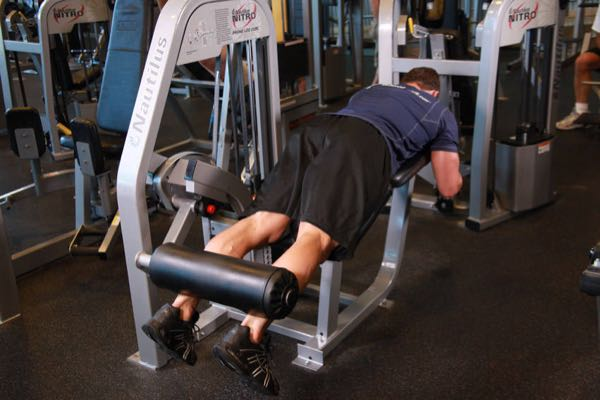
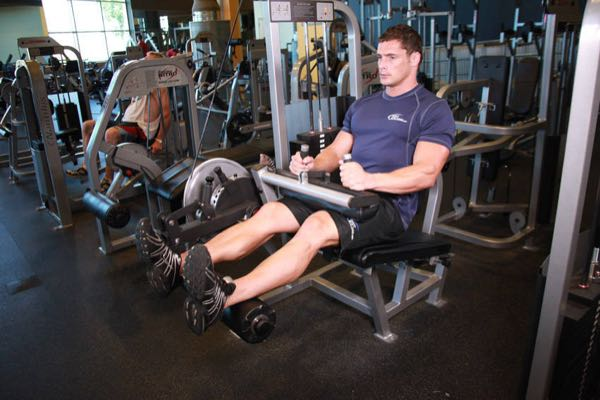
Leg curl : photo de la version assise

diff --git a/js/program.js b/js/program.js
@@ -25,7 +25,7 @@ export const PROGRAM = {
     // — Jambes (suit l'ondulation du plan semi) —
     'fentes-marchees': { id: 'fentes-marchees', name: 'Fentes marchées lestées', sets: 3, repMin: 10, repMax: 14, increment: 4, loadType: 'dumbbell', undulates: true, unit: 'kg', note: 'Charge totale des deux haltères' },
     'step-up': { id: 'step-up', name: 'Step-up lesté haltères', sets: 4, repMin: 10, repMax: 14, increment: 2, loadType: 'dumbbell', undulates: true, unit: 'kg', note: 'Genou d\'appui qui ne rentre pas, bassin stable' },
-    'leg-curl': { id: 'leg-curl', name: 'Leg curl', sets: 3, repMin: 8, repMax: 12, increment: 5, loadType: 'machine', undulates: true, unit: 'kg' },
+    'leg-curl': { id: 'leg-curl', name: 'Leg curl assis', sets: 3, repMin: 8, repMax: 12, increment: 5, loadType: 'machine', undulates: true, unit: 'kg' },
     'mollet-presse': { id: 'mollet-presse', name: 'Mollets à la presse', sets: 4, repMin: 12, repMax: 20, increment: 10, loadType: 'machine', undulates: true, unit: 'kg' },
     'wallball-thruster': { id: 'wallball-thruster', name: 'Simulation wall ball : maintien + thrusters', sets: 5, repMin: 12, repMax: 16, increment: 2, loadType: 'dumbbell', undulates: true, unit: 'kg', note: '20 s haltères au-dessus de la tête, puis thrusters max' },
   },

diff --git a/sw.js b/sw.js
@@ -1,5 +1,5 @@
 // Service worker : réseau d'abord (mises à jour rapides), cache en repli (hors ligne en salle).
-const VERSION = '2026-10-02-7';
+const VERSION = '2026-10-02-8';
 const CACHE = `muscu-${VERSION}`;
 const NETWORK_TIMEOUT = 4000;
 
